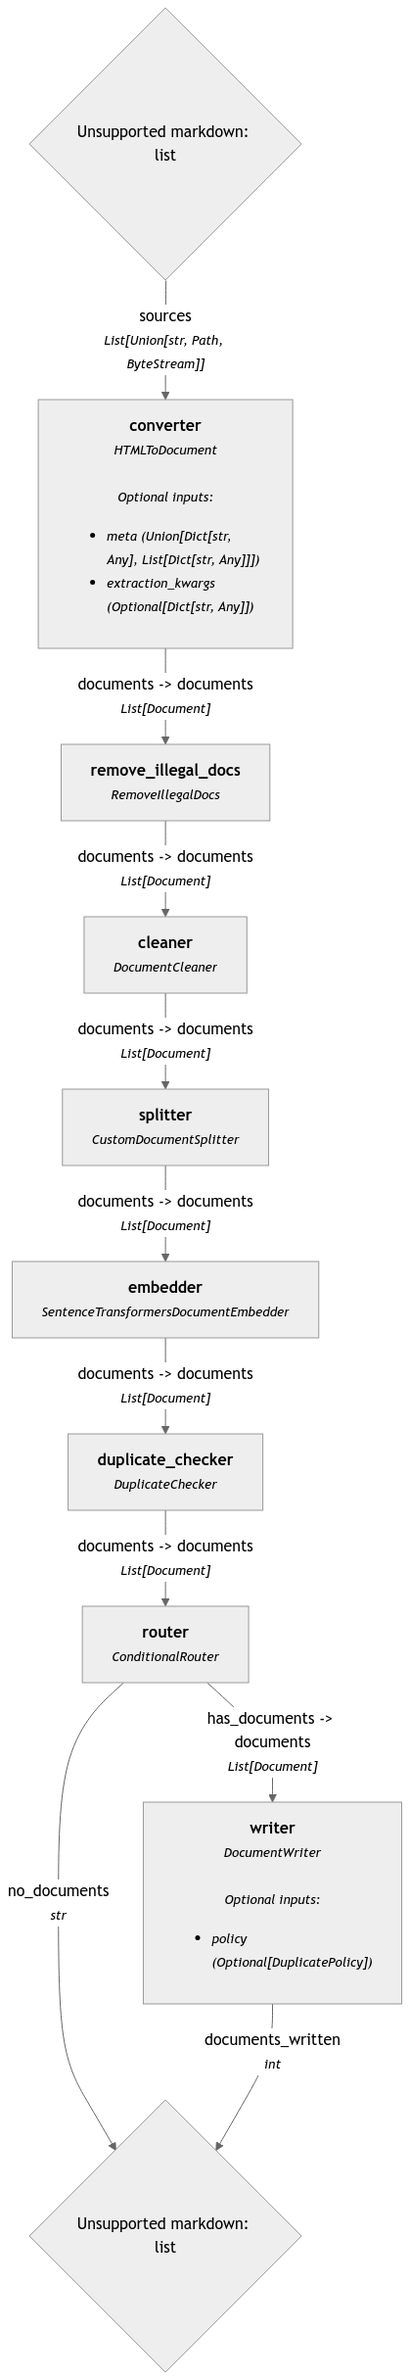
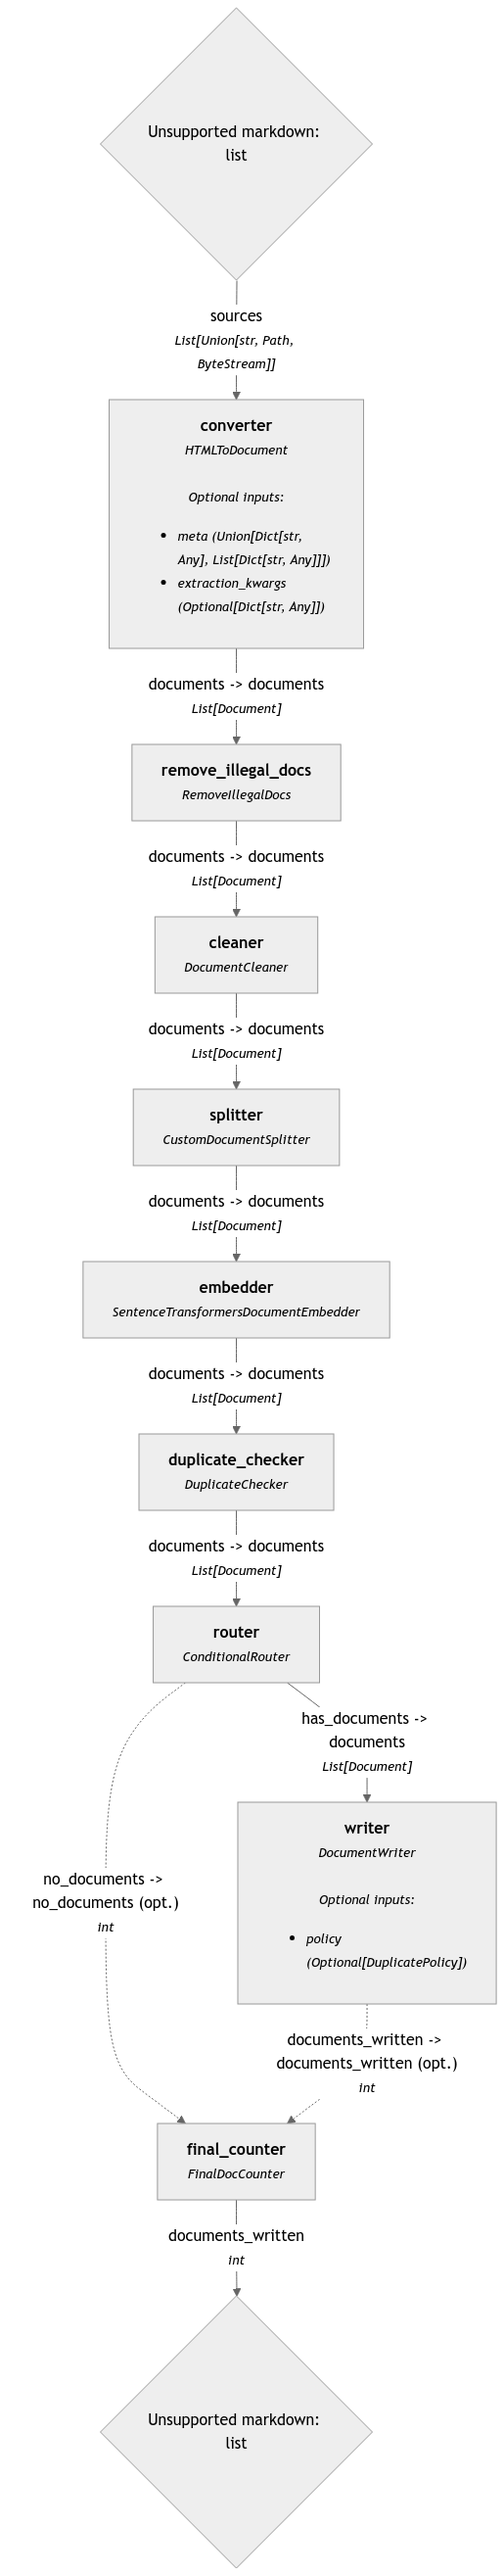
Final Doc Counter Added
Added a Final Doc Counter component so that I don't have to check for what the last component is. It will always be FinalDocCount.

Fixed is duplicate filter to work with all versions of Haystack.

Other small improvements to language of prints.

diff --git a/document_processor.py b/document_processor.py
@@ -37,6 +37,16 @@ from doc_content_checker import skip_content
 
 
 @component
+class FinalDocCounter:
+    # A component that connects to both 'router' and 'writer' components and determines
+    # how many, if any, documents were written to the document store. This avoids having to check if 'writer' exists
+    # at the last node of the pipeline. I can always just be assured this component will exist.
+    @component.output_types(documents_written=int)
+    def run(self, documents_written: int = 0, no_documents: int = 0) -> Dict[str, int]:
+        return {"documents_written": documents_written + no_documents}
+
+
+@component
 class RemoveIllegalDocs:
     @component.output_types(documents=List[Document])
     def run(self, documents: List[Document]) -> Dict[str, List[Document]]:
@@ -60,7 +70,11 @@ class DuplicateChecker:
 
     def _is_duplicate(self, document: Document) -> bool:
         # Use a simpler filter that checks for exact content match
-        filters = {"content": document.content}
+        filters = {
+            "field": "content",
+            "operator": "==",
+            "value": document.content
+        }
         results = self.document_store.filter_documents(filters=filters)
         return len(results) > 0
 
@@ -122,7 +136,7 @@ class CustomDocumentSplitter:
             processed_docs.extend(self.process_document(doc))
 
         if self._verbose:
-            print(f"Processed {len(documents)} documents into {len(processed_docs)} documents")
+            print(f"Split {len(documents)} documents into {len(processed_docs)} documents")
         return {"documents": processed_docs}
 
     def process_document(self, document: Document) -> List[Document]:
@@ -444,10 +458,10 @@ class DocumentProcessor:
                 "output_type": List[Document],
             },
             {
-                "condition": "{{documents|length <= 10}}",
-                "output": "No unique documents to write.",
+                "condition": "{{documents|length <= 0}}",
+                "output": "{{0}}",
                 "output_name": "no_documents",
-                "output_type": str,
+                "output_type": int,
             },
         ]
         router = ConditionalRouter(routes=routes)
@@ -464,6 +478,7 @@ class DocumentProcessor:
         doc_convert_pipe.add_component("writer",
                                        DocumentWriter(document_store=self._document_store,
                                                       policy=DuplicatePolicy.OVERWRITE))
+        doc_convert_pipe.add_component("final_counter", FinalDocCounter())
 
         doc_convert_pipe.connect("converter", "remove_illegal_docs")
         doc_convert_pipe.connect("remove_illegal_docs", "cleaner")
@@ -472,6 +487,8 @@ class DocumentProcessor:
         doc_convert_pipe.connect("embedder", "duplicate_checker")
         doc_convert_pipe.connect("duplicate_checker", "router")
         doc_convert_pipe.connect("router.has_documents", "writer")
+        doc_convert_pipe.connect("writer.documents_written", "final_counter.documents_written")
+        doc_convert_pipe.connect("router.no_documents", "final_counter.no_documents")
 
         self._doc_convert_pipeline = doc_convert_pipe
 
@@ -507,24 +524,20 @@ class DocumentProcessor:
         source: List[ByteStream]
         meta: List[Dict[str, str]]
         for source, meta in self._load_files():
-            self._print_verbose("Processing document: " + meta[0]["book_title"])
+            self._print_verbose(f"Processing document: {meta[0]['book_title']}")
 
             # If needed, you can batch process here instead of processing one by one
             # Pass the source and meta to the document conversion pipeline
             results: Dict[str, Any] = self._doc_convert_pipeline.run({"converter": {"sources": source, "meta": meta}})
-            # Check if results has a "writer" key
-            if "writer" in results:
-                written = results["writer"]["documents_written"]
-                total_written += written
-                self._print_verbose(f"Wrote {written} documents.")
-            else:
-                self._print_verbose("No documents written.")
+            written = results["final_counter"]["documents_written"]
+            total_written += written
+            self._print_verbose(f"Wrote {written} documents for {meta[0]['book_title']}.")
 
         self._print_verbose(f"Finished writing documents to document store. Final document count: {total_written}")
 
 
 def main() -> None:
-    epub_file_path: str = "documents"  # /Karl Popper - The Myth of the Framework-Taylor and Francis.epub"
+    epub_file_path: str = "documents/Karl Popper - The Myth of the Framework-Taylor and Francis.epub"
     postgres_password = get_secret(r'D:\Documents\Secrets\postgres_password.txt')
     processor: DocumentProcessor = DocumentProcessor(
         table_name="book_archive",
@@ -552,8 +565,6 @@ def main() -> None:
 if __name__ == "__main__":
     main()
 
-# TODO: Rewrite this to load one document into the store at a time so I don't hold everything in memory.
 # TODO: There should be a 'true' section number based on finding a number then a return line character in paragraph 1
-# TODO: Don't load duplicates?
 # TODO: Change pipeline so that it passes empty List of documents to a final repo so that I don't have to check
 #  for 'writer'

diff --git a/rag_pipeline.py b/rag_pipeline.py
@@ -547,7 +547,11 @@ def main() -> None:
         print("Sentence Embedder Dims: " + str(rag_processor.sentence_embed_dims))
         print("Sentence Embedder Context Length: " + str(rag_processor.sentence_context_length))
 
-    query: str = "What is induction? Does it exist? Has it been refuted?"
+    query: str = "How are refutation, falsification, and testability related?"
+    # "What is the relationship between ad hocness and independent testability?"
+    # "Should we strive to make our theories as severely testable as possible?"
+    # "Should you ad hoc save your theory?"
+    # "How are refutation, falsification, and testability related?"
     rag_processor.generate_response(query)
 
 
